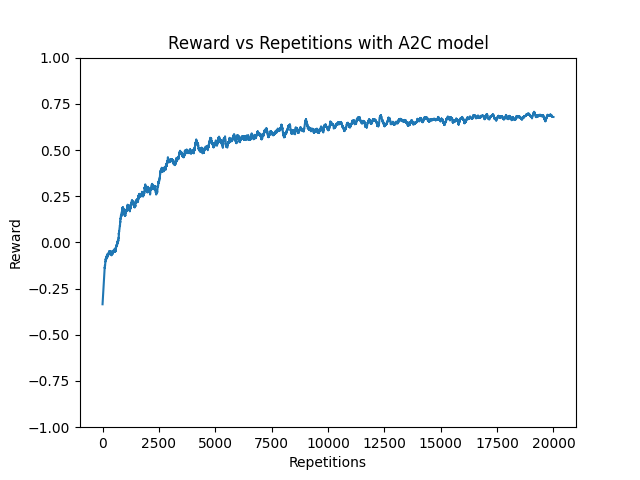
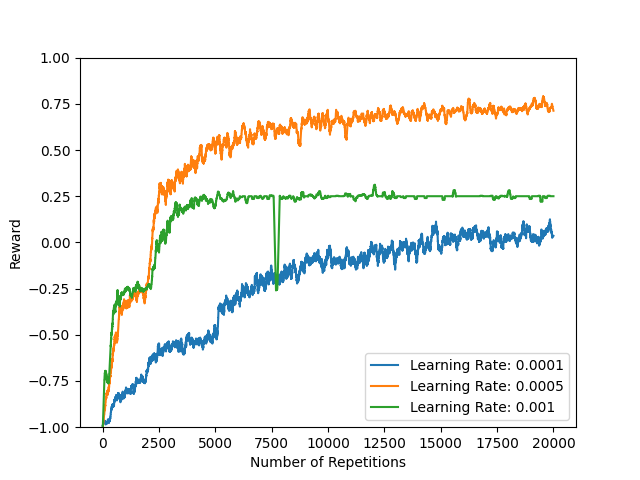
Done

diff --git a/ActorCritic.py b/ActorCritic.py
@@ -13,7 +13,7 @@ def set_seed(seed):
     environment = gym.make("Blackjack-v1")
     return environment
     
-def A2C_blackjack(environment, seed, learning_rate, n_repetitions, gamma):
+def A2C_blackjack(model_info, environment, seed, learning_rate, n_repetitions, gamma):
     total_rewards = np.zeros(n_repetitions)
     
     environment = set_seed(seed)
@@ -22,7 +22,7 @@ def A2C_blackjack(environment, seed, learning_rate, n_repetitions, gamma):
     output_size = environment.action_space.n
     
     model = ActorCriticDiscrete(input_size, hidden_size, output_size)
-    optimizer_actor = torch.optim.Adam(model.actor.parameters(), lr=0.0005) # minimizes the loss
+    optimizer_actor = torch.optim.Adam(model.actor.parameters(), lr=learning_rate) # minimizes the loss
     optimizer_critic = torch.optim.Adam(model.critic.parameters(), lr=learning_rate) # minimizes the loss
     
     wins = np.zeros(n_repetitions)
@@ -69,10 +69,10 @@ def A2C_blackjack(environment, seed, learning_rate, n_repetitions, gamma):
             state = next_state
         # print(f"Repetition {repetition}, Actor Loss: {actor_loss.item()}, Critic Loss: {critic_loss.item()}, Reward: {total_reward}, Count: {count}")
     environment.close()
-    torch.save(model.state_dict(), 'A2C_blackjack.pth')
+    torch.save(model.state_dict(), f'A2C_blackjack_{model_info}.pth')
     return total_rewards
 
-def DQL_blackjack(environment, seed, learning_rate, n_repetitions, gamma):
+def DQL_blackjack(model_info, environment, seed, learning_rate, n_repetitions, gamma):
     total_rewards = np.zeros(n_repetitions)
     
     environment = set_seed(seed)
@@ -130,7 +130,7 @@ def DQL_blackjack(environment, seed, learning_rate, n_repetitions, gamma):
                 optimizer.step()
                 state = next_state
     environment.close()
-    torch.save(model.state_dict(), 'DQL_blackjack.pth')
+    torch.save(model.state_dict(), f'DQL_blackjack_{model_info}.pth')
     return total_rewards
         
 
@@ -165,7 +165,7 @@ def test(input_size, hidden_size, output_size, weights, A2C):
                     total_draws += 1
             state = torch.tensor(next_state, dtype=torch.float32)
     environment.close()
-    print(f"Wins: {total_wins}, Losses: {total_losses}, Draws: {total_draws}")
+    # print(f"Wins: {total_wins}, Losses: {total_losses}, Draws: {total_draws}")
     return total_wins, total_losses, total_draws
     
 def test_random():
@@ -187,69 +187,104 @@ def test_random():
                 else:
                     total_draws += 1
     environment.close()
-    print(f"Wins: {total_wins}, Losses: {total_losses}, Draws: {total_draws}")
+    # print(f"Wins: {total_wins}, Losses: {total_losses}, Draws: {total_draws}")
     return total_wins, total_losses, total_draws
 
 def experiment(tests, seeds, n_repetitions):
-    for agent in ['A2C', 'DQL']:
-        total_rewards = np.zeros((len(seeds), n_repetitions))
-        for i, seed in enumerate(seeds):
-            environment = set_seed(seed)
-            if agent == 'A2C':
-                rewards = A2C_blackjack(environment, seed=seed, learning_rate=0.001, n_repetitions=n_repetitions, gamma=0.5)
-            elif agent == 'DQL':
-                rewards = DQL_blackjack(environment, seed=seed, learning_rate=0.001, n_repetitions=n_repetitions, gamma=0.5)
-            total_rewards[i] = rewards
-        mean_rewards = np.mean(total_rewards, axis=0)
-        window = 100
-        smoothed_rewards = savgol_filter(mean_rewards, window, 1)
-        plt.plot(smoothed_rewards)
-        plt.xlabel('Repetitions')
-        plt.ylabel('Reward')
-        plt.ylim(-1, 1)
-        plt.title(f'Reward vs Repetitions with {agent} model')
-        plt.savefig(f'{agent}_rewards.png')
-        plt.close()
+    optimal_values = {'A2C': {"Evaluation": np.full(n_repetitions, -np.inf), "Learning_rate": 0},
+                      'DQL': {"Evaluation": np.full(n_repetitions, -np.inf), "Learning_rate": 0}}
+    
+    learning_rates = [0.0001, 0.0005, 0.001]
+    # for agent in ['A2C', 'DQL']:
+    #     plt.figure()
+    #     for learning_rate in learning_rates:
+    #         model_info = f'{learning_rate}'
+    #         total_rewards = np.zeros((len(seeds), n_repetitions))
+    #         for i, seed in enumerate(seeds):
+    #             environment = set_seed(seed)
+    #             if agent == 'A2C':
+    #                 rewards = A2C_blackjack(model_info, environment, seed=seed, learning_rate=learning_rate, n_repetitions=n_repetitions, gamma=0.5)
+    #             elif agent == 'DQL':
+    #                 rewards = DQL_blackjack(model_info, environment, seed=seed, learning_rate=learning_rate, n_repetitions=n_repetitions, gamma=0.5)
+    #             total_rewards[i] = rewards
+    #         mean_rewards = np.mean(total_rewards, axis=0)
+    #         window = 100
+    #         smoothed_rewards = savgol_filter(mean_rewards, window, 1)
+    #         if np.sum(mean_rewards) > np.sum(optimal_values[agent]["Evaluation"]):
+    #             optimal_values[agent]["Evaluation"] = mean_rewards
+    #             optimal_values[agent]["Learning_rate"] = learning_rate
+    #         plt.plot(smoothed_rewards, label=f'Learning Rate: {learning_rate}')
+    #     plt.xlabel('Number of Repetitions')
+    #     plt.ylabel('Reward')
+    #     plt.ylim(-1, 1)
+    #     plt.legend()
+    #     plt.savefig(f'{agent}_rewards.png')
+    #     plt.close()
+    
+    # plt.figure()
+    # for agent in ['A2C', 'DQL']:
+    #     optimal_value = optimal_values[agent]["Evaluation"]
+    #     window = 100
+    #     smoothed_rewards = savgol_filter(optimal_value, window, 1)
+    #     plt.plot(smoothed_rewards, label=f'{agent} - Learning Rate: {optimal_values[agent]["Learning_rate"]}')
+    # plt.xlabel('Number of Repetitions')
+    # plt.ylabel('Reward')
+    # plt.ylim(-1, 1)
+    # plt.legend()
+    # plt.savefig('optimal_rewards.png')
+    # plt.close()
     
     human_rates = [4222, 848, 4910]
+    labels = ['Wins', 'Draws', 'Losses']
     for agent in ['Random', 'A2C', 'DQL']:
-        total_wins = 0
-        total_draws = 0
-        total_losses = 0
-        for i, seed in enumerate(seeds):
-            environment = set_seed(seed)
-            input_size = len(environment.observation_space)
-            hidden_size = 32
-            output_size = environment.action_space.n
-            if agent == 'A2C':
-                wins, losses, draws = test(input_size=input_size, hidden_size=hidden_size, output_size=output_size, weights='A2C_blackjack.pth', A2C=True)
-            elif agent == 'DQL':
-                wins, losses, draws = test(input_size=input_size, hidden_size=hidden_size, output_size=output_size, weights='DQL_blackjack.pth', A2C=False)
+        plt.figure()
+        for lr, learning_rate in enumerate(learning_rates):
+            total_wins = 0
+            total_draws = 0
+            total_losses = 0
+            for i, seed in enumerate(seeds):
+                environment = set_seed(seed)
+                input_size = len(environment.observation_space)
+                hidden_size = 32
+                output_size = environment.action_space.n
+                if agent == 'A2C':
+                    wins, losses, draws = test(input_size=input_size, hidden_size=hidden_size, output_size=output_size, weights=f'A2C_blackjack_{learning_rate}.pth', A2C=True)
+                    print(f'A2C: Wins: {wins}, Losses: {losses}, Draws: {draws}')
+                elif agent == 'DQL':
+                    wins, losses, draws = test(input_size=input_size, hidden_size=hidden_size, output_size=output_size, weights=f'DQL_blackjack_{learning_rate}.pth', A2C=False)
+                else:
+                    wins, losses, draws = test_random()
+                total_wins += wins
+                total_draws += draws
+                total_losses += losses
+            average_wins = total_wins / tests
+            average_draws = total_draws / tests
+            average_losses = total_losses / tests
+            
+            x = np.arange(len(labels))
+            if agent == 'A2C' or agent == 'DQL':
+                width = 0.15
+                offset = lr * width
+                plt.bar(x - width + offset, [average_wins, average_draws, average_losses], width, label = f'Learning Rate: {learning_rate}')
             else:
-                wins, losses, draws = test_random()
-            total_wins += wins
-            total_draws += draws
-            total_losses += losses
-        average_wins = total_wins / tests
-        average_draws = total_draws / tests
-        average_losses = total_losses / tests
-        
-        labels = ['Wins', 'Draws', 'Losses']
-        x = np.arange(len(labels))
-        width = 0.35
-        plt.bar(x-0.2, [average_wins, average_draws, average_losses], width, label = 'Model')
-        plt.bar(x+0.2, human_rates, width, color = 'r', label = 'Human')
-        plt.xticks(x, labels)
+                width = 0.35
+                plt.bar(x - 0.2, [average_wins, average_draws, average_losses], width, label = 'Random')
+        if agent == 'A2C' or agent == 'DQL':
+            plt.bar(x - width + len(learning_rates) * width, human_rates, width, color = 'r', label = 'Human')
+            plt.xticks(x + (width / 2), labels)
+        else:
+            plt.bar(x + 0.2, human_rates, width, color = 'r', label = 'Human')
+            plt.xticks(x, labels)
+            
         plt.xlabel('Rates')
-        plt.ylabel('Average Rate')
-        plt.title(f'Average Wins, Draws, and Losses with {agent} model')    
+        plt.ylabel('Number of occurences')   
         plt.ylim(0, 10000)
         plt.legend()
         plt.savefig(f'{agent}_blackjack.png')
         plt.close()
     
 def main():
-    seeds = [11, 12, 13, 14, 15, 16, 17, 18, 19, 20]
+    seeds = [17, 18, 19, 20]
     environment = gym.make("Blackjack-v1")
     input_size = len(environment.observation_space)
     hidden_size = 32
